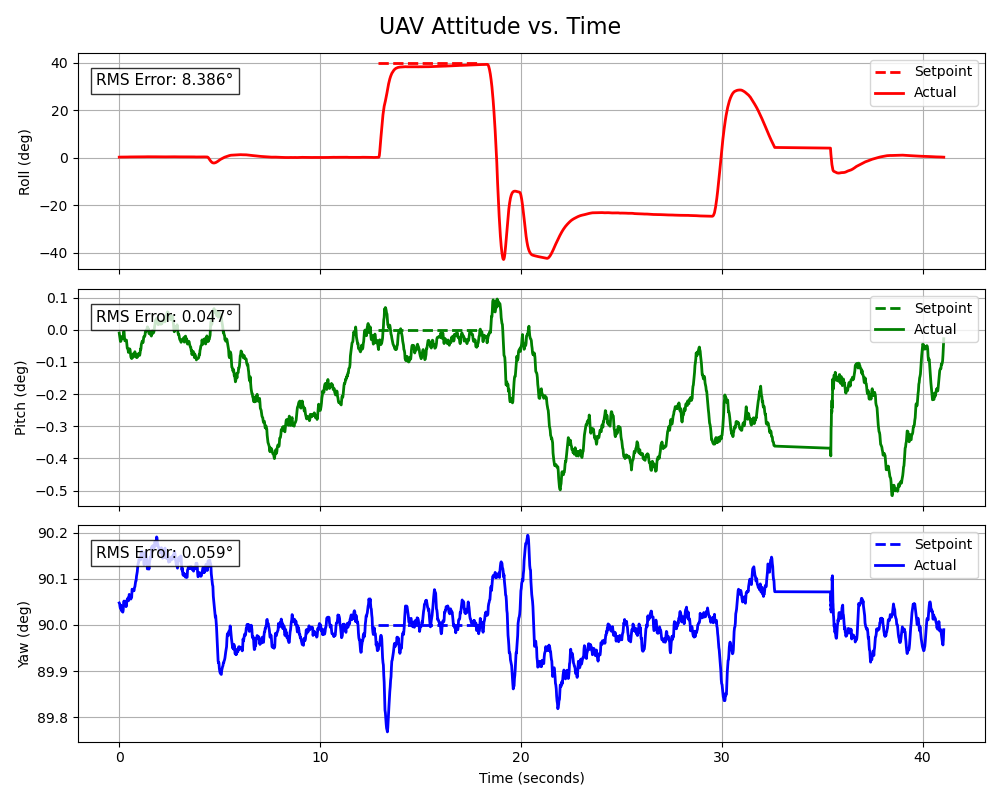
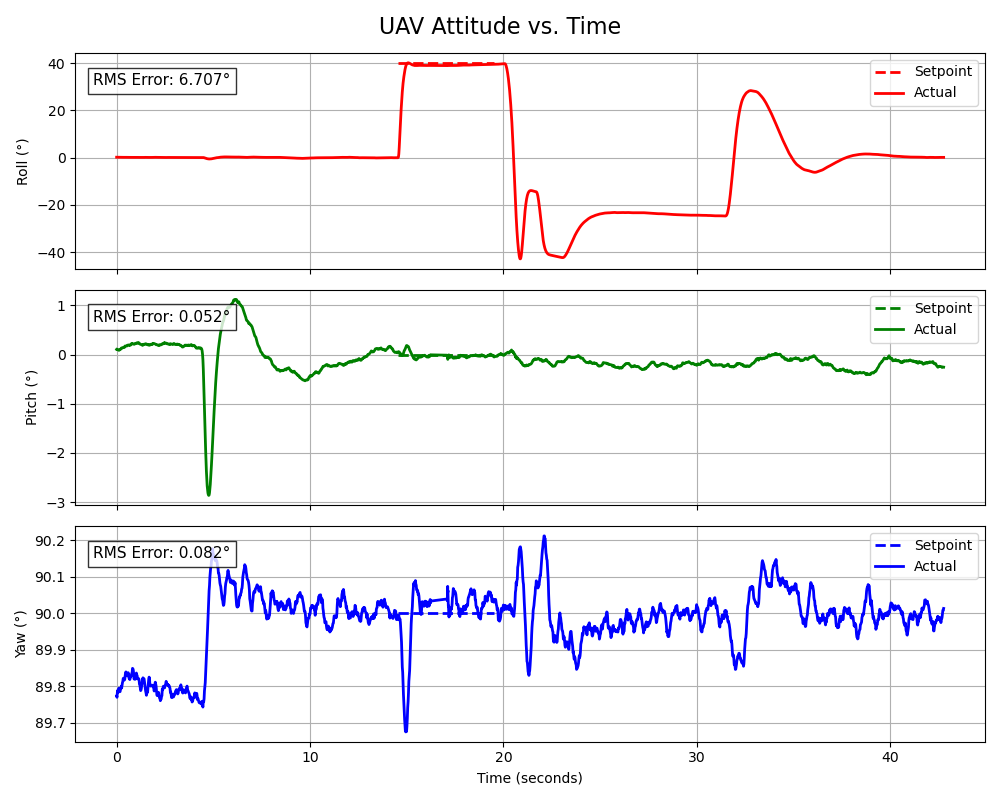
Updated data recording script to record body rates and also refactored some of the code, added a few more test results and a log file for the data recorder

diff --git a/data_recording/real_time_recorder.py b/data_recording/real_time_recorder.py
@@ -4,7 +4,9 @@ from rclpy.qos import qos_profile_sensor_data
 from px4_msgs.msg import VehicleLocalPosition
 from px4_msgs.msg import VehicleStatus
 from px4_msgs.msg import VehicleAttitude
-from px4_msgs.msg import VehicleAttitudeSetpoint # <-- ADDED IMPORT
+from px4_msgs.msg import VehicleAttitudeSetpoint 
+from px4_msgs.msg import VehicleRatesSetpoint 
+from px4_msgs.msg import VehicleOdometry # <-- SWAPPED IMPORT
 from rclpy.executors import ExternalShutdownException
 import matplotlib.pyplot as plt
 import time
@@ -44,6 +46,21 @@ class local_position_plotter(Node):
             qos_profile_sensor_data
         )
 
+        self.rates_sp_subscription = self.create_subscription(
+            VehicleRatesSetpoint,
+            '/fmu/in/vehicle_rates_setpoint',
+            self.rates_setpoint_callback,
+            qos_profile_sensor_data
+        )
+
+        # Use odometry for angular velocity
+        self.angular_velocity_subscription = self.create_subscription(
+            VehicleOdometry,
+            '/fmu/out/vehicle_odometry',
+            self.angular_velocity_callback,
+            qos_profile_sensor_data
+        )
+
         # Start at 0 (Init)
         self.previous_arming_state = 0
         
@@ -61,6 +78,16 @@ class local_position_plotter(Node):
         self.roll_sp_data = []
         self.pitch_sp_data = []
         self.yaw_sp_data = []
+
+        self.rates_times = []
+        self.roll_rate_data = []
+        self.pitch_rate_data = []
+        self.yaw_rate_data = []
+
+        self.rates_sp_times = []
+        self.roll_rate_sp_data = []
+        self.pitch_rate_sp_data = []
+        self.yaw_rate_sp_data = []
 
         self.start_time = None
         self.get_logger().info('Position Plotter Node started. Recording data...')
@@ -136,6 +163,26 @@ class local_position_plotter(Node):
         self.pitch_sp_data.append(math.degrees(pitch))
         self.yaw_sp_data.append(math.degrees(yaw))
 
+    def angular_velocity_callback(self, msg):
+        if self.start_time is None:
+            self.start_time = time.time()
+            
+        current_time = time.time() - self.start_time
+        self.rates_times.append(current_time)
+        self.roll_rate_data.append(math.degrees(msg.angular_velocity[0]))
+        self.pitch_rate_data.append(math.degrees(msg.angular_velocity[1]))
+        self.yaw_rate_data.append(math.degrees(msg.angular_velocity[2]))
+
+    def rates_setpoint_callback(self, msg):
+        if self.start_time is None:
+            self.start_time = time.time()
+            
+        current_time = time.time() - self.start_time
+        self.rates_sp_times.append(current_time)
+        self.roll_rate_sp_data.append(math.degrees(msg.roll))
+        self.pitch_rate_sp_data.append(math.degrees(msg.pitch))
+        self.yaw_rate_sp_data.append(math.degrees(msg.yaw))
+
     def status_callback(self, msg):
         if self.previous_arming_state == 2 and msg.arming_state != 2:
             
@@ -159,141 +206,112 @@ class local_position_plotter(Node):
                 return np.sqrt(integral / T)
         return None
 
+    def create_plot(self, title, actual_times, actual_data, sp_times, sp_data, rms_texts, ylabels, filename):
+        fig, axes = plt.subplots(3, 1, figsize=(10, 8), sharex=True)
+        fig.suptitle(title, fontsize=16)
+
+        colors = ['r', 'g', 'b']
+
+        for i, ax in enumerate(axes):
+            if sp_times is not None and len(sp_times) > 0 and sp_data is not None:
+                ax.plot(sp_times, sp_data[i], f'{colors[i]}--', linewidth=2, label='Setpoint')
+            ax.plot(actual_times, actual_data[i], f'{colors[i]}-', linewidth=2, label='Actual')
+            ax.set_ylabel(ylabels[i])
+            ax.legend(loc="upper right")
+            ax.grid(True)
+            ax.text(0.02, 0.85, rms_texts[i], transform=ax.transAxes, fontsize=11,
+                    bbox=dict(facecolor='white', edgecolor='black', alpha=0.8))
+
+        axes[-1].set_xlabel('Time (seconds)')
+
+        fig.tight_layout()
+        fig.savefig(filename)
+
+    def generate_metric_graphs(self, metric_name, actual_times, actual_data, sp_times, sp_data, ylabels, rms_unit, file_prefix):
+        if not actual_times:
+            print(f"No actual data received for {metric_name}. Is the topic publishing?")
+            return
+            
+        print(f'Generating {metric_name} plots...')
+        has_setpoints = sp_times is not None and len(sp_times) > 0
+        
+        rms_texts = ["RMS Error: N/A", "RMS Error: N/A", "RMS Error: N/A"]
+
+        if has_setpoints:
+            actual_times_arr = np.array(actual_times)
+            sp_times_arr = np.array(sp_times)
+            valid_mask = (actual_times_arr >= sp_times_arr[0]) & (actual_times_arr <= sp_times_arr[-1])
+            
+            for i in range(3):
+                rms = self.calculate_rms(actual_times, actual_data[i], sp_times, sp_data[i])
+                if rms is not None:
+                    rms_texts[i] = f"RMS Error: {rms:.3f}{rms_unit}"
+                else:
+                    print(f"WARNING: Not enough valid data points to integrate {ylabels[i]}! Skipping RMS.")
+        else:
+            print(f"WARNING: No {metric_name} setpoints received! Skipping RMS calculation.")
+
+        self.create_plot(
+            title=f'UAV {metric_name} vs. Time',
+            actual_times=actual_times,
+            actual_data=actual_data,
+            sp_times=sp_times if has_setpoints else None,
+            sp_data=sp_data if has_setpoints else None,
+            rms_texts=rms_texts,
+            ylabels=ylabels,
+            filename=f"data_recording/tmp/previous_run_{file_prefix}.png"
+        )
+
+        if has_setpoints:
+            cropped_times = actual_times_arr[valid_mask]
+            cropped_data = (
+                np.array(actual_data[0])[valid_mask],
+                np.array(actual_data[1])[valid_mask],
+                np.array(actual_data[2])[valid_mask]
+            )
+            
+            self.create_plot(
+                title=f'UAV {metric_name} vs. Time (Test Region Only)',
+                actual_times=cropped_times,
+                actual_data=cropped_data,
+                sp_times=sp_times,
+                sp_data=sp_data,
+                rms_texts=rms_texts,
+                ylabels=ylabels,
+                filename=f"data_recording/tmp/previous_run_{file_prefix}_cropped.png"
+            )
+
     def generate_graphs(self):
         if not self.position_times or not self.attitude_times:
             print("No data was received. Is the topic publishing?")
             return
-            
-        print('Generating plots...')
-        
-        # --- POSITION GRAPH ---
-        # fig, (ax1, ax2, ax3) = plt.subplots(3, 1, figsize=(10, 8), sharex=True)
-        # fig.suptitle('UAV Local Position vs. Time', fontsize=16)
 
-        # ax1.plot(self.position_times, self.x_data, 'r-', linewidth=2)
-        # ax1.set_ylabel('X Position (m)')
-        # ax1.grid(True)
+        # 1. Generate Attitude Graphs
+        self.generate_metric_graphs(
+            metric_name="Attitude",
+            actual_times=self.attitude_times,
+            actual_data=(self.roll_data, self.pitch_data, self.yaw_data),
+            sp_times=self.attitude_sp_times,
+            sp_data=(self.roll_sp_data, self.pitch_sp_data, self.yaw_sp_data),
+            ylabels=('Roll (°)', 'Pitch (°)', 'Yaw (°)'),
+            rms_unit="°",
+            file_prefix="attitude"
+        )
 
-        # ax2.plot(self.position_times, self.y_data, 'g-', linewidth=2)
-        # ax2.set_ylabel('Y Position (m)')
-        # ax2.grid(True)
+        # 2. Generate Body Rate Graphs
+        if self.rates_times:
+            self.generate_metric_graphs(
+                metric_name="Body Rates",
+                actual_times=self.rates_times,
+                actual_data=(self.roll_rate_data, self.pitch_rate_data, self.yaw_rate_data),
+                sp_times=self.rates_sp_times,
+                sp_data=(self.roll_rate_sp_data, self.pitch_rate_sp_data, self.yaw_rate_sp_data),
+                ylabels=('Roll Rate (°/s)', 'Pitch Rate (°/s)', 'Yaw Rate (°/s)'),
+                rms_unit="°/s",
+                file_prefix="rates"
+            )
 
-        # inverted_z = [-z for z in self.z_data]
-        # ax3.plot(self.position_times, inverted_z, 'b-', linewidth=2)
-        # ax3.set_ylabel('Altitude / -Z (m)')
-        # ax3.set_xlabel('Time (seconds)')
-        # ax3.grid(True)
-
-        # plt.tight_layout()
-        # plt.savefig("data_recording/tmp/previous_run_position.png")
-
-        # Safety check: Did we actually receive any attitude setpoints before shutting down?
-        has_setpoints = len(self.attitude_sp_times) > 0
-
-        # --- CALCULATE RMS ERROR ---
-        if has_setpoints:
-            actual_times = np.array(self.attitude_times)
-            sp_times = np.array(self.attitude_sp_times)
-            
-            # Create a mask to only evaluate actual data while setpoints were being published
-            valid_mask = (actual_times >= sp_times[0]) & (actual_times <= sp_times[-1])
-            
-            rms_roll = self.calculate_rms(self.attitude_times, self.roll_data, self.attitude_sp_times, self.roll_sp_data)
-            rms_pitch = self.calculate_rms(self.attitude_times, self.pitch_data, self.attitude_sp_times, self.pitch_sp_data)
-            rms_yaw = self.calculate_rms(self.attitude_times, self.yaw_data, self.attitude_sp_times, self.yaw_sp_data)
-
-            if rms_roll is not None:
-                rms_text_roll = f"RMS Error: {rms_roll:.3f}°"
-                rms_text_pitch = f"RMS Error: {rms_pitch:.3f}°"
-                rms_text_yaw = f"RMS Error: {rms_yaw:.3f}°"
-            else:
-                print("WARNING: Not enough valid data points to integrate! Skipping RMS.")
-                rms_text_roll = "RMS Error: N/A"
-                rms_text_pitch = "RMS Error: N/A"
-                rms_text_yaw = "RMS Error: N/A"
-        else:
-            print("WARNING: No attitude setpoints received! Skipping RMS calculation.")
-            rms_text_roll = "RMS Error: N/A"
-            rms_text_pitch = "RMS Error: N/A"
-            rms_text_yaw = "RMS Error: N/A"
-
-        # --- ATTITUDE GRAPH (FULL DATA) ---
-        fig2, (ax4, ax5, ax6) = plt.subplots(3, 1, figsize=(10, 8), sharex=True)
-        fig2.suptitle('UAV Attitude vs. Time', fontsize=16)
-
-        # Plot Roll
-        if has_setpoints:
-            ax4.plot(self.attitude_sp_times, self.roll_sp_data, 'r--', linewidth=2, label='Setpoint')
-        ax4.plot(self.attitude_times, self.roll_data, 'r-', linewidth=2, label='Actual')
-        ax4.set_ylabel('Roll (deg)')
-        ax4.legend(loc="upper right")
-        ax4.grid(True)
-        ax4.text(0.02, 0.85, rms_text_roll, transform=ax4.transAxes, fontsize=11,
-                 bbox=dict(facecolor='white', edgecolor='black', alpha=0.8))
-
-        # Plot Pitch
-        if has_setpoints:
-            ax5.plot(self.attitude_sp_times, self.pitch_sp_data, 'g--', linewidth=2, label='Setpoint')
-        ax5.plot(self.attitude_times, self.pitch_data, 'g-', linewidth=2, label='Actual')
-        ax5.set_ylabel('Pitch (deg)')
-        ax5.legend(loc="upper right")
-        ax5.grid(True)
-        ax5.text(0.02, 0.85, rms_text_pitch, transform=ax5.transAxes, fontsize=11,
-                 bbox=dict(facecolor='white', edgecolor='black', alpha=0.8))
-
-        # Plot Yaw
-        if has_setpoints:
-            ax6.plot(self.attitude_sp_times, self.yaw_sp_data, 'b--', linewidth=2, label='Setpoint')
-        ax6.plot(self.attitude_times, self.yaw_data, 'b-', linewidth=2, label='Actual')
-        ax6.set_ylabel('Yaw (deg)')
-        ax6.set_xlabel('Time (seconds)')
-        ax6.legend(loc="upper right")
-        ax6.grid(True)
-        ax6.text(0.02, 0.85, rms_text_yaw, transform=ax6.transAxes, fontsize=11,
-                 bbox=dict(facecolor='white', edgecolor='black', alpha=0.8))
-
-        fig2.tight_layout()
-        fig2.savefig("data_recording/tmp/previous_run_attitude.png")
-
-        # --- CROPPED ATTITUDE GRAPH (SETPOINT REGION ONLY) ---
-        if has_setpoints:
-            fig3, (ax7, ax8, ax9) = plt.subplots(3, 1, figsize=(10, 8), sharex=True)
-            fig3.suptitle('UAV Attitude vs. Time (Test Region Only)', fontsize=16)
-
-            cropped_times = np.array(self.attitude_times)[valid_mask]
-
-            # Plot Roll
-            ax7.plot(self.attitude_sp_times, self.roll_sp_data, 'r--', linewidth=2, label='Setpoint')
-            ax7.plot(cropped_times, np.array(self.roll_data)[valid_mask], 'r-', linewidth=2, label='Actual')
-            ax7.set_ylabel('Roll (deg)')
-            ax7.legend(loc="upper right")
-            ax7.grid(True)
-            ax7.text(0.02, 0.85, rms_text_roll, transform=ax7.transAxes, fontsize=11,
-                     bbox=dict(facecolor='white', edgecolor='black', alpha=0.8))
-
-            # Plot Pitch
-            ax8.plot(self.attitude_sp_times, self.pitch_sp_data, 'g--', linewidth=2, label='Setpoint')
-            ax8.plot(cropped_times, np.array(self.pitch_data)[valid_mask], 'g-', linewidth=2, label='Actual')
-            ax8.set_ylabel('Pitch (deg)')
-            ax8.legend(loc="upper right")
-            ax8.grid(True)
-            ax8.text(0.02, 0.85, rms_text_pitch, transform=ax8.transAxes, fontsize=11,
-                     bbox=dict(facecolor='white', edgecolor='black', alpha=0.8))
-
-            # Plot Yaw
-            ax9.plot(self.attitude_sp_times, self.yaw_sp_data, 'b--', linewidth=2, label='Setpoint')
-            ax9.plot(cropped_times, np.array(self.yaw_data)[valid_mask], 'b-', linewidth=2, label='Actual')
-            ax9.set_ylabel('Yaw (deg)')
-            ax9.set_xlabel('Time (seconds)')
-            ax9.legend(loc="upper right")
-            ax9.grid(True)
-            ax9.text(0.02, 0.85, rms_text_yaw, transform=ax9.transAxes, fontsize=11,
-                     bbox=dict(facecolor='white', edgecolor='black', alpha=0.8))
-
-            fig3.tight_layout()
-            fig3.savefig("data_recording/tmp/previous_run_attitude_cropped.png")
-
-        plt.show()
+        # plt.show()
 
 def main(args=None):
     rclpy.init(args=args)

diff --git a/bare_quad_sim/src/offboard_controller.cpp b/bare_quad_sim/src/offboard_controller.cpp
@@ -48,7 +48,7 @@ using namespace px4_msgs::msg;
 int main(int argc, char *argv[]) {
     // MUST BE RUN FROM WITHIN PARENT DIRECTORY
     std::cout << "Starting recording script..." << std::endl;
-    std::system("python3 data_recording/real_time_recorder.py &");
+    std::system("python3 data_recording/real_time_recorder.py > data_recording/tmp/previous_plotter_log.txt 2>&1 &");
     std::this_thread::sleep_for(2000ms);
 
     std::cout << "Starting offboard control node..." << std::endl;
@@ -115,13 +115,10 @@ OffboardControl::OffboardControl() : Node("offboard_control") {
             pos_vel_acc_ctrl.publish_velocity_setpoint(timestamp);
         else if (_enable_acceleration_cmd)
             pos_vel_acc_ctrl.publish_acceleration_setpoint(timestamp);
-        else if (_enable_attitude_cmd)
+        else if (_enable_attitude_cmd || _enable_rate_cmd) {
+            // We publish both for the sake of data recording, but only one will be listened to at a time by the vehicle
             att_rate_ctrl.publish_attitude_setpoint(timestamp);
-        else if (_enable_rate_cmd) {
             att_rate_ctrl.publish_rates_setpoint(timestamp);
-
-            // We publish this for the python script, but it doesn't affect the control for body rate, since attitude should be FALSE
-            att_rate_ctrl.publish_attitude_setpoint(timestamp);
         }
 
         // Stop the counter
@@ -283,7 +280,7 @@ void OffboardControl::set_setpoint() {
         // Setup timed finish
         static auto roll_step_start_time = std::chrono::high_resolution_clock::now();
 
-        set_offboard_control_mode(ATTITUDE);
+        set_offboard_control_mode(BODY_RATE);
         Eigen::Vector3d rpy_sp(40.f, 0.f, pos_vel_acc_ctrl._yawd * 180 / M_PI);
         this->step_rpy_test(rpy_sp, roll_step_start_time);
         break;
